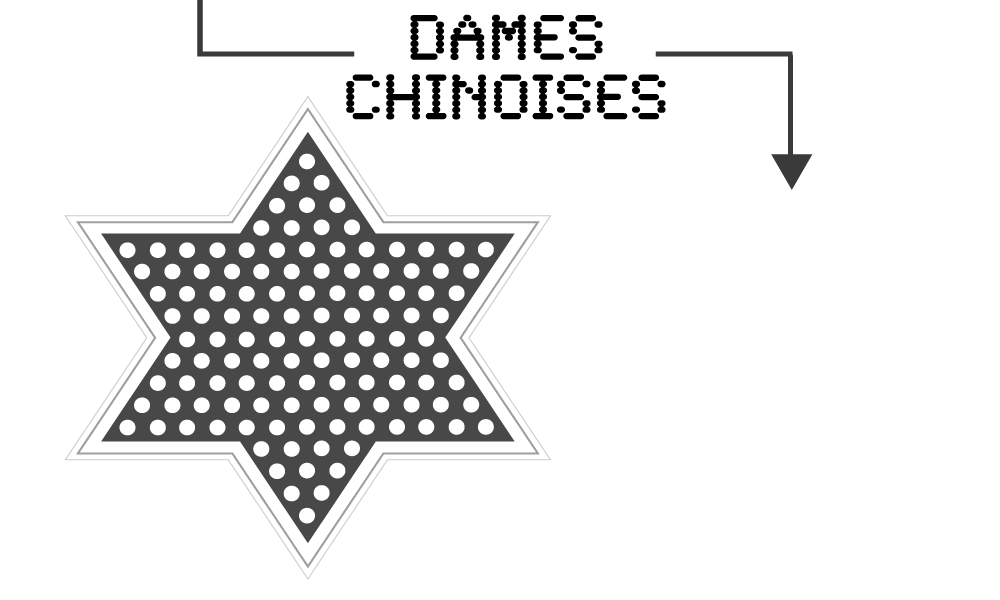
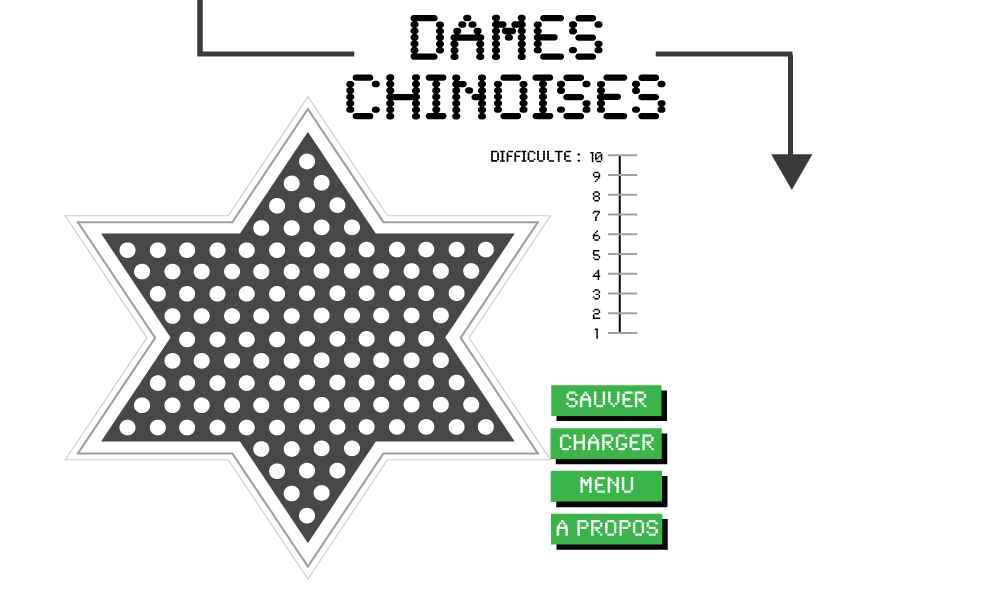
Ajout des boutons + slider

Changed region(s): [[0.527, 0.63, 0.682, 0.93], [0.496, 0.24, 0.651, 0.57]]

diff --git a/src/vue/PanneauDC.java b/src/vue/PanneauDC.java
@@ -13,9 +13,7 @@ import java.util.HashSet;
 import java.util.Set;
 
 import javax.imageio.ImageIO;
-import javax.swing.ImageIcon;
-import javax.swing.JLabel;
-import javax.swing.JPanel;
+import javax.swing.*;
 
 import modele.BoardDC;
 import modele.Config;
@@ -27,6 +25,8 @@ public class PanneauDC extends JPanel{
 	private BoardDC boardView = new BoardDC();
 	private ArrayList<Coords> listTargets = new ArrayList<Coords>();
 	private int tabTargets[][] = new int[19][27];
+
+    private int initParam=1;
 	
 	private Coords[] tabPieces = new Coords[3];
 	private Coords marble = new Coords(0,0);
@@ -37,11 +37,18 @@ public class PanneauDC extends JPanel{
 	private Config.Direction direction = null;
 	
 	private ArrayList<Config.Direction> tabDirections = new ArrayList<Config.Direction>();
+
+    JSlider slideDif = new JSlider(JSlider.VERTICAL, 1, 10, 1);
 	
 	// Elements graphiques
 	private JLabel joueur1;
 	
 	public void paintComponent(Graphics g) {
+
+        if(initParam==1){
+            slideDif.setBounds(600,140,50,208);
+            add(slideDif);
+        }
 		
 		addImage(g, "Images/dames/Board.png", 0, 0, this);
 		 
@@ -131,6 +138,25 @@ public class PanneauDC extends JPanel{
             }
             heightOffset = heightOffset + 22;
         }
+
+		for (int i = 0; i < 4; i++) {
+			if ((e.getX() > 551) && (e.getX() < 551 + 110) && (e.getY() > 385+(i*43)) && (e.getY() < 385+(i*43) + 34)){
+				switch (i){
+					case 0: //SAUVER
+
+
+						break;
+					case 1: //CHARGER
+
+
+						break;
+					case 2: //MENU
+						break;
+					case 3: //A PROPOS
+						break;
+				}
+			}
+		}
         
         repaint();
     }

diff --git a/src/vue/PanneauAbalone.java b/src/vue/PanneauAbalone.java
@@ -78,33 +78,6 @@ public class PanneauAbalone extends JPanel {
 
             initParam=0;
 
-/*
-            JLabel hg = new JLabel("Test");
-            JLabel d = new JLabel("Test");
-            JLabel gau = new JLabel("Test");
-            JLabel bd = new JLabel("Test");
-            JLabel bg = new JLabel("Test");
-            hg.setBackground(Color.lightGray);
-            d.setBackground(Color.lightGray);
-            gau.setBackground(Color.lightGray);
-            bd.setBackground(Color.lightGray);
-            bg.setBackground(Color.lightGray);
-            hg.setOpaque(true);
-            d.setOpaque(true);
-            gau.setOpaque(true);
-            bd.setOpaque(true);
-            bg.setOpaque(true);
-            hg.setBounds(721, 202, 72, 73);
-            d.setBounds(821, 278, 86, 65);
-            gau.setBounds(672, 278, 86, 65);
-            bd.setBounds(793, 345, 72, 73);
-            bg.setBounds(722, 345, 72, 73);
-            this.add(hg);
-            this.add(d);
-            this.add(gau);
-            this.add(bd);
-            this.add(bg);
-*/
         }
 
         //Affiche le fond
